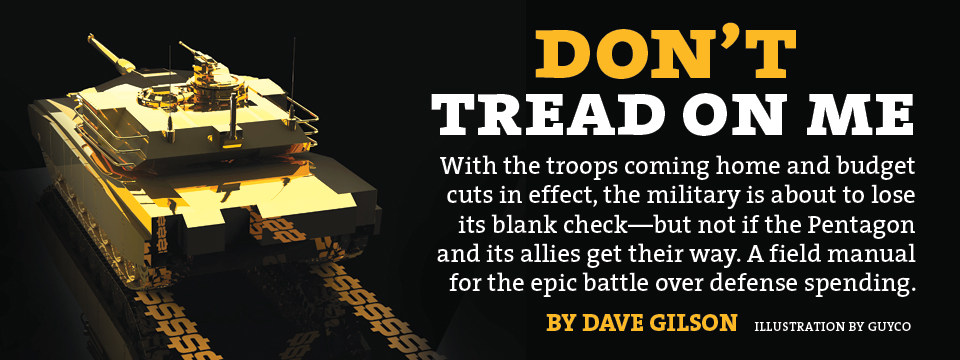
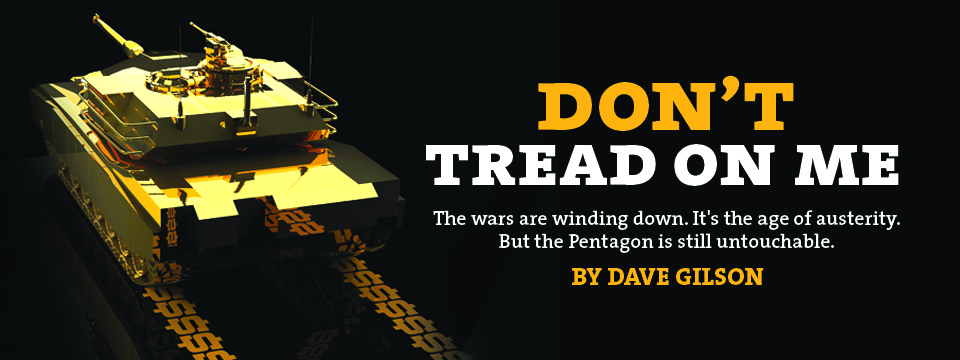
adding more images

diff --git a/pentagon.html b/pentagon.html
@@ -14,14 +14,14 @@
 		<h3>Introduction</h3>
 		<p>To hear the Pentagon brass and their allies describe it, the nation is facing a grave new security threat: sequestration. Under the automatic budget cuts that kicked in last March, the Pentagon must trim nearly $1 trillion over the next decade—cuts originally intended to be so unpalatable as to force Congress to make a lasting budget deal. That didn't work out, but now congressional hawks, defense officials, and weapons contractors are warning that if the cuts aren't eliminated, America's military superiority will be.</p>
 		<section class="full">
-			<img class="width630" src="http://assets.motherjones.com/interactives/projects/2013/12/pentagon/images/final/Defense_PeaceDiv_630px.jpg" alt="" />
+			<img src="http://assets.motherjones.com/interactives/projects/2013/12/pentagon/images/final/Defense_PeaceDiv_630px.jpg" alt="" />
 		</section>
 		<p>But before you plan a bake sale to help the Pentagon pay its bills (or draw up your wish list for spending that new peace dividend), consider this: Even after the sequester, the Pentagon's base budget is set to remain well above pre-9/11 levels for the next decade, and the military is taking a far smaller haircut than it did after Vietnam and the Cold War wound down. "These 'terrible' cuts would return us to historically high levels of spending," snaps Winslow Wheeler of the Project on Government Oversight. Even if the sequester were to be scrapped, the Pentagon could reduce its budget by $100 billion a year without undermining its readiness, according to Lawrence J. Korb, a senior fellow at the Center for American Progress.</p>
 		<p>Facing $37 billion in cuts in 2013, the Pentagon furloughed contractors, delayed contracts, and grounded planes. But sequestration doesn't touch overseas operations—i.e., wars—soldiers' pay or benefits, veterans' benefits, or the nuclear arsenal. With another $52 billion set to be sliced, reversing those cuts has become the centerpiece of talk of a "grand bargain" to end the cycle of budget crises and fiscal hostage-taking.</p>
 		<p>Republicans have proposed increasing defense spending and taking more money from Obamacare and other social programs, while Democrats have said they'd scale back the defense cuts in exchange for additional tax revenue.</p>
 		<p>Both ideas are likely nonstarters, which means that after the next rounds of budget theater are over, sequestration may remain as the blunt, imperfect tool that forces the military to shed some of the bulk it acquired while fighting two of the longest and most expensive wars in our history. Deprived of its blank check, the Pentagon might heed the hawkish Capitol Hill insider who once called for the "bloated" defense establishment to "be pared down" and retooled for the 21st century. That insider? Vietnam vet and retired Republican senator from Nebraska Chuck Hagel, before he became secretary of defense.</p>
 		<section class="full">
-			<img class="width630" src="http://assets.motherjones.com/interactives/projects/2013/12/pentagon/images/final/Defense_PeaceDiv_630px.jpg" alt="" />
+			<img src="http://assets.motherjones.com/interactives/projects/2013/12/pentagon/images/final/Defense_Back2future_630.jpg" alt="" />
 		</section>
 	</div>
 	
@@ -41,7 +41,7 @@
 	<div class="full" id="defense">
 		<h3>One out of every five tax dollars is spent on defense.</h3>
 		<p>The $3.7 trillion federal budget breaks down into mandatory spending—benefits guaranteed the American people, such as Social Security and Medicare—and discretionary spending—programs that, at least in theory, can be cut. In 2013, more than half of all discretionary spending (and one-fifth of total spending) went to defense, including the Pentagon, veterans' benefits, and the nuclear weapons arsenal.</p>
-		<img class="width960" src="http://assets.motherjones.com/interactives/projects/2013/12/pentagon/images/final/Defense_Bubbles_960px.jpg" alt="" />
+		<img src="http://assets.motherjones.com/interactives/projects/2013/12/pentagon/images/final/Defense_Bubbles_960px.jpg" alt="" />
 	</div>
 	
 	<div class="right zebra" id="gorilla">
